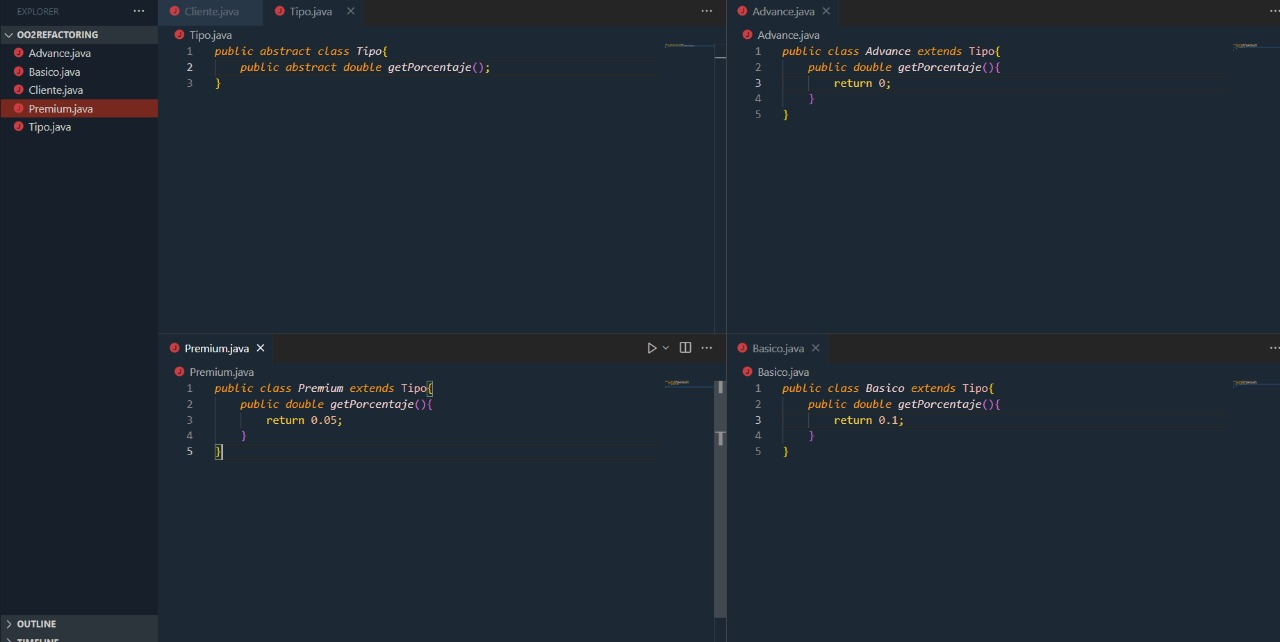
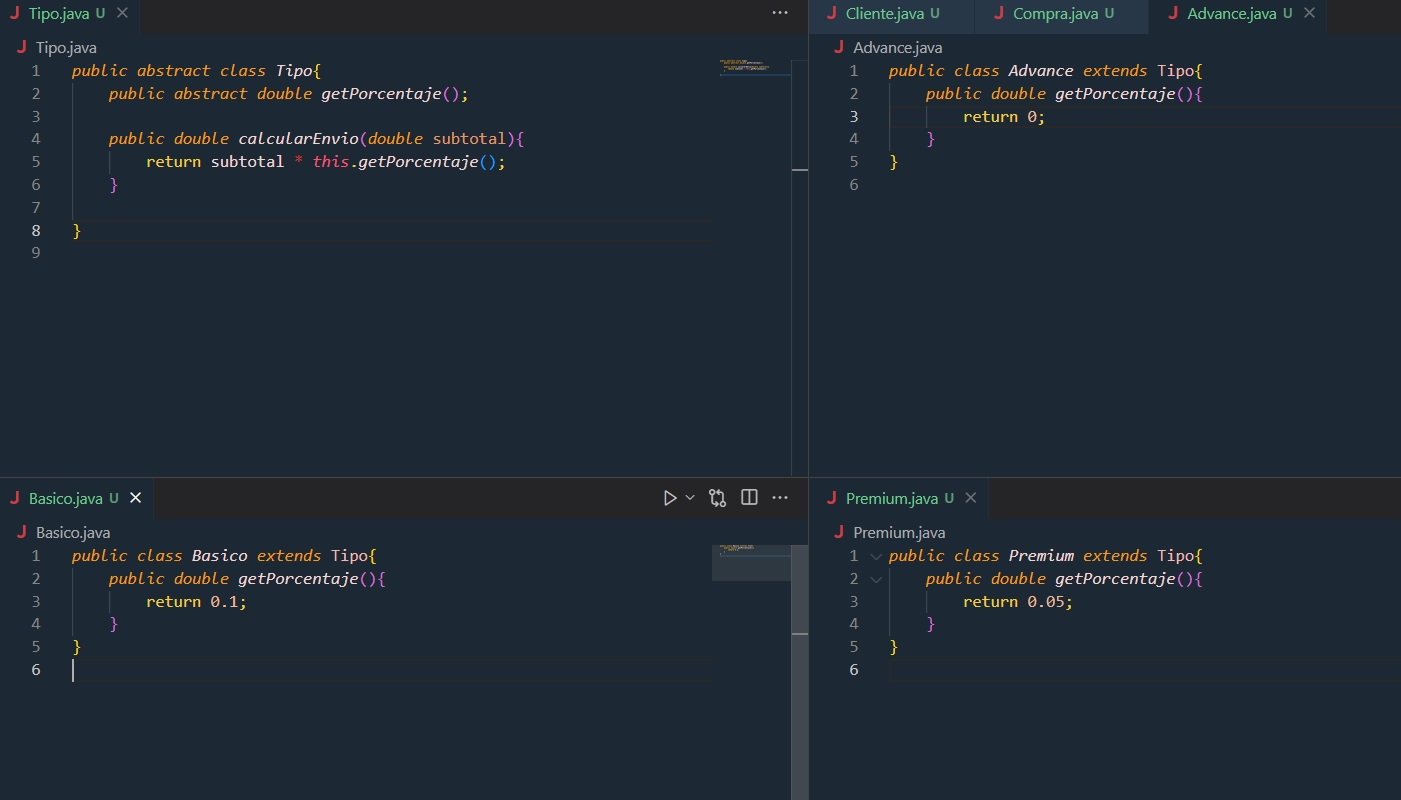
correccion refactoring

diff --git a/PARCIALES/PARCIAL_1/refactoring/codigo/Cliente.java b/PARCIALES/PARCIAL_1/refactoring/codigo/Cliente.java
@@ -1,0 +1,28 @@
+public class Cliente{
+    private String nombre;
+    private Tipo tipo;
+    private List<Compra> compras;
+
+    public Cliente(String unNombre){
+        this.nombre = unNombre;
+        this.tipo = new Basico();
+        this.compras = new ArrayList<Compra>();
+    }
+    
+    public Compra comprar(List<Producto> productos){
+        Compra n = new Compra(productos, this.tipo);
+        this.compras.add(n);
+        this.actualizarTipo();
+        return n;
+    }
+    public void actualizarTipo(){
+        if(this.montoAcumuladoEnCompras() > 10000){
+            this.tipo = new Advance();
+        }else if(this.montoAcumuladoEnCompras() > 5000){
+            this.tipo = new Premium();
+        }
+    }
+
+    public double montoAcumuladoEnCompras(){...}
+
+}

diff --git a/PARCIALES/PARCIAL_1/refactoring/codigo/Compra.java b/PARCIALES/PARCIAL_1/refactoring/codigo/Compra.java
@@ -1,0 +1,18 @@
+public class Compra{
+    private List<Producto> productos;
+    private double subtotal;
+    private double envio;
+    private String estado;
+
+    public Compra(List<Producto> productos, Tipo tipo){
+        this.productos = productos;
+        this.subtotal = this.calcularSubtotal();
+        this.envio = tipo.calcularEnvio(subtotal);
+        this.estado = "...";
+    }
+
+    private double calcularSubtotal(){
+        return this.productos.stream().mapToDouble(p -> p.getPrecio()).sum();
+    }
+
+}

diff --git a/PARCIALES/PARCIAL_1/refactoring/codigo/Tipo.java b/PARCIALES/PARCIAL_1/refactoring/codigo/Tipo.java
@@ -1,0 +1,8 @@
+public abstract class Tipo{
+    public abstract double getPorcentaje();
+
+    public double calcularEnvio(double subtotal){
+        return subtotal * this.getPorcentaje();
+    }
+
+}

diff --git a/PARCIALES/PARCIAL_1/refactoring/codigo/Premium.java b/PARCIALES/PARCIAL_1/refactoring/codigo/Premium.java
@@ -1,0 +1,5 @@
+public class Premium extends Tipo{
+    public double getPorcentaje(){
+        return 0.05;
+    }
+}

diff --git a/PARCIALES/PARCIAL_1/refactoring/codigo/Basico.java b/PARCIALES/PARCIAL_1/refactoring/codigo/Basico.java
@@ -1,0 +1,5 @@
+public class Basico extends Tipo{
+    public double getPorcentaje(){
+        return 0.1;
+    }
+}

diff --git a/PARCIALES/PARCIAL_1/refactoring/codigo/Advance.java b/PARCIALES/PARCIAL_1/refactoring/codigo/Advance.java
@@ -1,0 +1,5 @@
+public class Advance extends Tipo{
+    public double getPorcentaje(){
+        return 0;
+    }
+}
